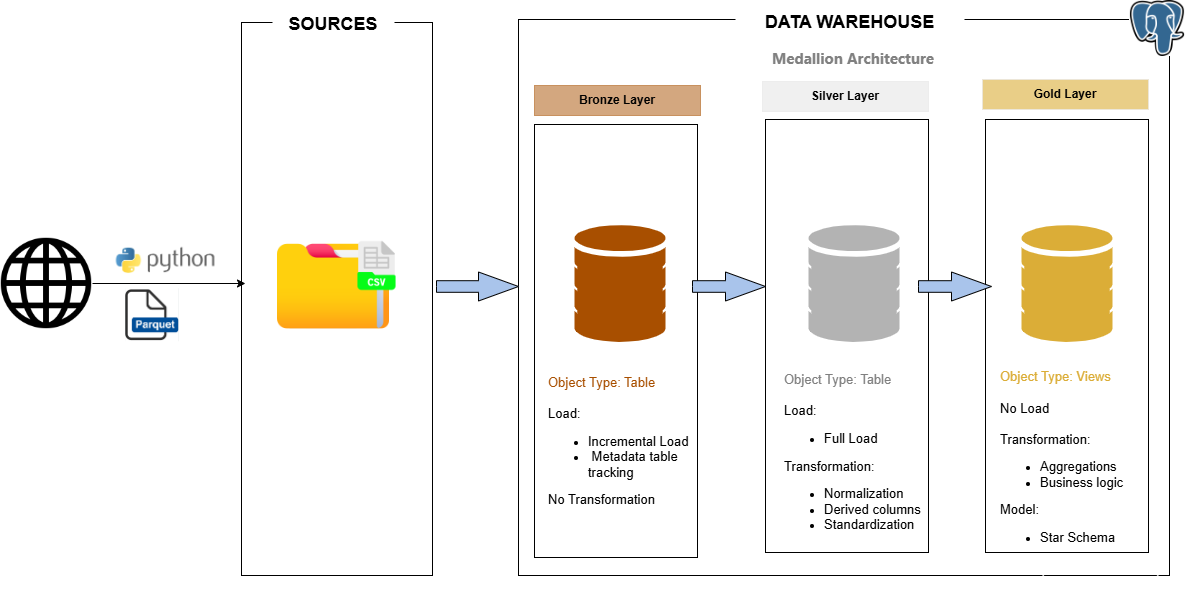
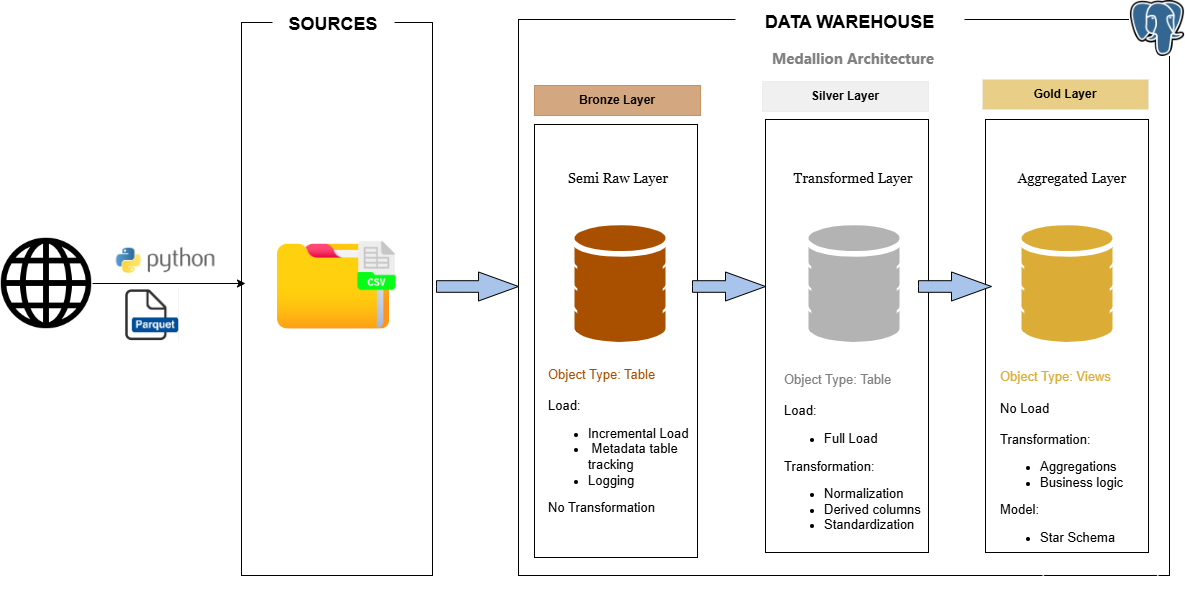
update readme & img

diff --git a/README.md b/README.md
@@ -27,6 +27,7 @@ The pipeline demonstrates both **full refresh** and **incremental loading** stra
 Specifically, the project aims to:
 - Implement an **automated ingestion process** that loads monthly trip data incrementally into the Raw (Bronze) layer and full load into the Transformed (Silver) layer.
 - Build a **metadata table** to track load history and prevent duplicate inserts.
+- Alongside the metadata tracking table, implement a lightweight **logging table** (`meta.invalid_records`) to capture all rejected or out-of-range rows.
 - Transform raw data into standardized, cleaned formats in the **Silver** layer using partitioned tables.
 - Aggregate and summarize data in the **Gold** layer for analytical and reporting purposes.
 - Deliver comprehensive **SQL scripts** and a **pipeline architecture diagram** demonstrating data flow across all layers.
